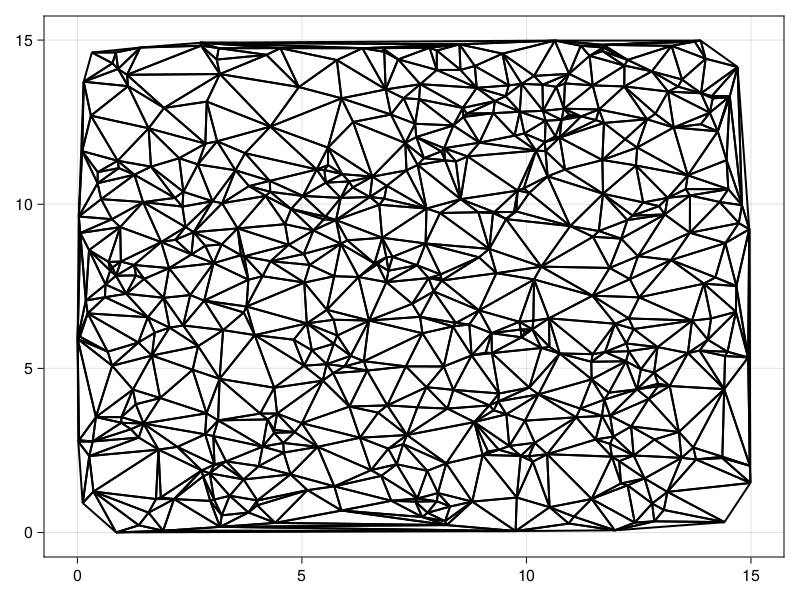
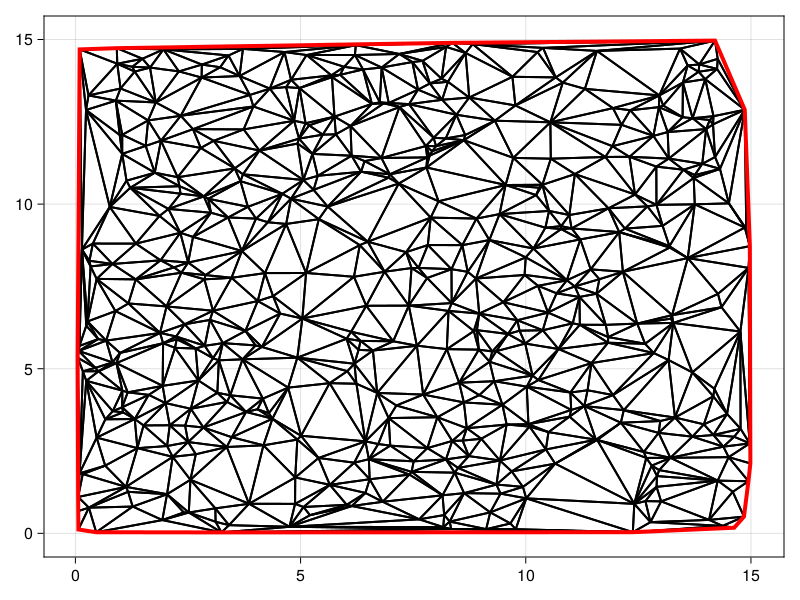
Readme

diff --git a/README.md b/README.md
@@ -1,5 +1,15 @@
 # DelaunayTriangulation
 
+- [DelaunayTriangulation](#delaunaytriangulation)
+- [Getting started](#getting-started)
+  - [de Berg's method](#de-bergs-method)
+  - [Bowyer-Watson algorithm](#bowyer-watson-algorithm)
+- [Customisation](#customisation)
+  - [Triangle interface](#triangle-interface)
+  - [Edge interface](#edge-interface)
+  - [Point interface](#point-interface)
+  - [Example](#example)
+- [A note on Voronoi tessellations](#a-note-on-voronoi-tessellations)
 
 This is a package for creating (unconstrained) two-dimensional Delaunay triangulations. The great package [ExactPredicates.jl](https://github.com/lairez/ExactPredicates.jl) is used for all geometric predicates. There also exist routines for building the convex hull (from the triangulation), and currently commented-out Voronoi tessellation code (see some discussion at the end). Much of the work in this package is derived from the book *Delaunay Mesh Generation* by Cheng, Dey, and Shewchuk (2013). Point location is implemented using the jump-and-march algorithm of Mücke, Saias, and Zhu (1999); see `jump_and_march`.
 
@@ -24,7 +34,7 @@ T, adj, adj2v, DG, HG = triangulate_berg(pts)
 ```
 This function `triangulate_berg` creates the triangulation for the given `pts`, returning:
 - `T`: This is the set of triangles, of default type `Set{NTuple{3, Int64}}`. By default, triangles are represented as tuples of indices `(i, j, k)` so that `(pts[i], pts[j], pts[k])` are the points representing the triangle. All triangles `T` are positively oriented.
-- `adj`: This is the `Adjacent` map, mapping edges `(i, j)` to a vertex `k` such that `(i, j, k)` is a positively oriented (counter-clockwise) triangle that exists in `T`. If no such triangle exists, `-4` is returned (this constant is defined in `DelaunayTriangulation.DefaultAdjacentValue`). You can extract this vertex using `get_edge(adj, i, j)`. By default, edges are represented as `NTuple{2, Int64}`.
+- `adj`: This is the `Adjacent` map, mapping edges `(i, j)` to a vertex `k` such that `(i, j, k)` is a positively oriented (counter-clockwise) triangle that exists in `T`. If no such triangle exists, `-4` is returned (this constant is defined in `DelaunayTriangulation.DefaultAdjacentValue`). You can extract this vertex using `get_edge(adj, i, j)`. By default, edges are represented as `NTuple{2, Int64}`. These empty keys (those that map to `-4`) can be removed using `DelaunayTriangulation.clear_empty_keys!(adj)`.
 - `adj2v`: This is the `Adjacent2Vertex` map, mapping vertices `i` to a set of edges `(j, k)` such that `(i, j, k)` is a positively oriented triangle in `T`. In particular, the set of all triangles with `i` as a vertex is `[(i, j, k) for (j, k) in get_edge(adj2v, i)]`.
 - `DG`: This is the `DelaunayGraph` object, mapping vertices `i` to the set of all neighbouring vertices. You can access all these neighbours using `get_neighbour(DG, i)`.
 - `HG`: Unique to `triangulate_berg`, this is a `HistoryGraph` object, primarily used for point location. For example, if a triangulation is constructed for points `pts[1:(n-1)]` and a new point `pts[n]` is to be added, the triangle that `pts[n]` is inside of can be found using `locate_triangle(HG, pts, n)`.
@@ -43,15 +53,17 @@ A key limitation of this algorithm is that points cannot be removed (although th
 
 The Bowyer-Watson algorithm is different to de Berg's method, although points are still added one at a time. Instead of flipping edges to reach a Delaunay triangulation at each step, triangles are instead evacuated and then the resulting polygonal cavity is re-filled to reach a Delaunay triangulation. Our implementation follows that of Cheng, Dey, and Shewchuk (2013). The function for this is `triangulate_bowyer`:
 ```julia
-p1 = [0.0, 1.0]
-p2 = [3.0, -1.0]
-p3 = [2.0, 0.0]
-p4 = [-1.0, 2.0]
-p5 = [4.0, 2.0]
-p6 = [-2.0, -1.0]
+using StaticArraysCore
+p1 = SVector{2, Float64}([0.0, 1.0])
+p2 = SVector{2, Float64}([3.0, -1.0])
+p3 = SVector{2, Float64}([2.0, 0.0])
+p4 = SVector{2, Float64}([-1.0, 2.0])
+p5 = SVector{2, Float64}([4.0, 2.0])
+p6 = SVector{2, Float64}([-2.0, -1.0])
 pts = [p1, p2, p3, p4, p5, p6]
 T, adj, adj2v, DG = triangulate_bowyer(pts)
 ```
+(Points don't have to be represented as vectors, they could be `Tuple`s or `SVector`s, or any type as long as you implement the interface correctly; see the Customisation section.) Points are added in random order, but you can use the order defined by the order in `pts` by setting the keyword `randomise` to `false` in `triangulate_bowyer`.
 
 The definitions of `T`, `adj`, `adj2v`, and `DG` are the same as above. One nice feature of the Bowyer-Watson algorithm as implemented is the use of ghost triangles, i.e. a ghost triangle adjoined to a boundary edge with a vertex out at infinity. This makes it easy to locate points in the boundary, defining a unique ghost triangle that they reside in, and makes it easy to traverse the boundary. You can keep these ghost triangles by setting `trim=false`:
 
@@ -65,17 +77,227 @@ Alternatively, you can add it after the fact as follows:
 DelaunayTriangulation.add_ghost_triangles!(T, adj, adj2v, DG)
 ```
 
-(Use `DelaunayTriangulation.remove_ghost_triangles!(T, adj, adj2v, DG)` to remove them.) 
+(Use `DelaunayTriangulation.remove_ghost_triangles!(T, adj, adj2v, DG)` to remove them.) The vertex at infinity is represented by `0`.
 
 Visualising these triangulations is easy:
 
 ```julia
-pts = [15rand(2) for _ in 1:500]
+pts = 15rand(2, 500)
 T, adj, adj2v, DG = triangulate_bowyer(pts)
+ch = convex_hull(DG, pts)
 using CairoMakie
 fig = Figure()
 ax = Axis(fig[1, 1])
-poly!(ax, Tuple.(pts), [collect(T)[i][j] for i in 1:length(T), j in 1:3], color = (:white, 0.0), strokewidth = 2)
+poly!(ax, pts, [collect(T)[i][j] for i in 1:length(T), j in 1:3], color = (:white, 0.0), strokewidth = 2)
+lines!(ax, hcat(pts[:, ch], pts[:, ch[1]]), color = :red, linewidth = 4)
 ```
 
 ![A triangulation](https://github.com/DanielVandH/DelaunayTriangulation.jl/blob/main/test_fig.png?raw=true)
+
+# Customisation 
+
+The package is built to allow for customisation. For either `triangulate_bowyer` or `triangulate_berg`, we have the following keywords (these are not all of them):
+
+- `IntegerType`: This is the type used for representing integers (default is `Int64`).
+- `EdgeType`: The type used to represent an edge (default is `NTuple{2, IntegerType})`.
+- `TriangleType`: The type used to represent a triangle (default is `NTuple{3, IntegerType})`.
+- `EdgesType`: The type used to represent a set of edges (default is `Set{EdgeType}`).
+- `TrianglesType`: The type used to represent a set of triangles (default is `Set{TriangleType}`).
+
+With these keywords we can allow for a generic interface for these geometric primitives. Below we list these interfaces, followed by an example.
+
+## Triangle interface
+
+Any definition of a triangle must implement the following functions, where we let `T` denote a triangle and `Triangle` is the triangle type, and we assume that `T` has vertices `i`, `j`, and `k`:
+
+- `geti(T::Triangle)`: Returns `i`.
+- `getj(T::Triangle)`: Returns `j`.
+- `getk(T::Triangle)`: Returns `k`.
+- `construct_triangle(::Type{Triangle}, i, j, k)`: Given vertices `i`, `j`, and `k`, and the type `Triangle`, constructs a triangle of type `Triangle` with vertices `i`, `j`, and `k`.
+- `integer_type(::Type{Triangle})`: Returns the integer type for the vertices.
+
+For a collection of triangles, it is needed is that the type is iterable and `length(T)` returns the number of triangles (so that `num_triangles` returns the correct number). You also need to be able to `push!` into `T` and use `delete!` to remove a specific triangle. Finally, you `eltype` should remove `Triangle` when applied to `Triangles`.
+
+## Edge interface 
+
+Any definition of an edge must implement the following function, where we let `E` denote an edge and `Edge` is the edge type, and we assume that `E` has vertices `i` and `j`:
+
+- `construct_edge(::Type{Edge}, i, j)`: Given the type `Edge` and vertices `i` and `j`, returns the `Edge` with vertices `i` and `j`.
+- `Base.iterate(e::Edge, state...)`: `Edge` must be iterable.
+
+For a collection of edges, it is needed is that the type is iterable, and you must define `Edges()` which should return an empty structure that edges can be added into. Moreover, it must be possible to `push!` `Edge`s into the `Edges` object. Additionally, it must also possible to use `delete!` to remove a specific edge; when `delete!` is used, it should make sure that all instances of the edges are removed, in case you use e.g. a `Vector` data type where duplicates are allowed (unlike a `Set`).. Finally, it must be possible to sample an edge using `rand`.
+## Point interface
+
+Any definition of a point must implement the following functions, where we let `p` denote a point and `Point` is the point type, and we assume that `p` has coordinates `(x, y)`:
+
+- `getx(p::Point)`: Returns `x`. The default implementation for this is `getx(p) = p[1]`.
+- `gety(p::Point)`: Returns `y`. The default implementation for this is `gety(p) = p[2]`.
+- `number_type(p::Point)`: Returns the number type used for representing the coordinates. The default implementation for this is `number_type(p) = number_type(p[1])`, `number_type(::T) where {T<:Number} = T`.
+
+For a collection of points, we require:
+
+- `_eachindex(pts::Points)`: Returns an iterator over the indices for the points. The default implementation is `_eachindex(pts) = eachindex(pts)`.
+- `_get_point(pts::Points, i)`: Returns the `i`th point.
+- `num_points(pts::Points)`: Returns the number of points. The default implementation is `num_points(pts) = length(pts)`.
+- `number_type(pts::Points)`: Returns the number type used for representing the coordinates. The default implementation for this is `number_type(pts) = number_type(pts[1])`.
+- `Base.firstindex(pts::Points)`: This should return the index of the first point.
+
+You can also use a matrix of points (as illustrated when we plot the triangulation in the last section).
+
+## Example 
+
+Let us now give an example of how we can implement these interfaces.
+
+First, we must define the types.
+```julia 
+struct CustomEdge
+    i::Int32
+    j::Int32
+end
+struct CustomTriangle
+    i::Int32
+    j::Int32
+    k::Int32
+end
+struct CustomEdges
+    e::Vector{CustomEdge}
+end
+struct CustomTriangles
+    V::Vector{CustomTriangle}
+end    
+struct CustomPoint
+    px::Float64 
+    py::Float64 
+end
+struct CustomPoints{N} 
+    pts::NTuple{N, CustomPoint} 
+end
+```
+Note that for `CustomPoint`, `Float64` is the only type that is compatible with ExactPredicates.jl. Now, let us define all the functions needed.
+```julia
+DT = DelaunayTriangulation 
+
+# Triangle
+DT.geti(CT::CustomTriangle) = CT.i
+DT.getj(CT::CustomTriangle) = CT.j
+DT.getk(CT::CustomTriangle) = CT.k
+DT.construct_triangle(::Type{CustomTriangle}, i, j, k) = CustomTriangle(i, j, k)
+DT.integer_type(::Type{CustomTriangle}) = Int64
+
+# Triangles 
+DT.construct_triangles(::Type{CustomTriangles}) = CustomTriangles(CustomTriangle[])
+DT.triangle_type(::Type{CustomTriangles}) = CustomTriangle 
+Base.push!(T::CustomTriangles, V::Vararg{CustomTriangle, N}) where {N} = push!(T.V, V...)
+function Base.delete!(T::CustomTriangles, V::CustomTriangle) 
+    triangle_idx = findfirst(==(V), T.V)
+    if triangle_idx !== nothing # V might not be in T - don't do anything in that case. Don't worry about checking the triangle up to rotation, that is already done in the main code.
+        deleteat!(T.V, triangle_idx)
+    end 
+    return nothing
+end
+Base.length(T::CustomTriangles) = length(T.V)
+Base.iterate(T::CustomTriangles, state...) = Base.iterate(T.V, state...)
+
+# Edge
+DT.construct_edge(::Type{CustomEdge}, i, j) = CustomEdge(i, j)
+Base.length(::CustomEdge) = 2 # Not needed, but helps the iterator
+Base.iterate(E::CustomEdge, state=1) = state > 2 ? nothing : (state == 1 ? (E.i, state+1) : (E.j, state+1))
+
+# Edges 
+CustomEdges() = CustomEdges(CustomEdge[])
+DT.push!(Es::CustomEdges, E::Vararg{CustomEdge, N}) where {N} = push!(Es.e, E...)
+Base.length(E::CustomEdges) = length(E.e) # Not needed, but helps the iterator 
+Base.iterate(E::CustomEdges, state...) = Base.iterate(E.e, state...)
+Base.delete!(Es::CustomEdges, E::CustomEdge) = deleteat!(Es.e, findall(==(E), Es.e)) # No need to check if the edge is not there - an error should given in that case since it should not be possible. Use findall to avoid the problem of duplicate edges.
+using Random 
+Random.rand(Es::CustomEdges) = rand(Es.e)
+
+# Point
+DT.getx(p::CustomPoint) = p.px 
+DT.gety(p::CustomPoint) = p.py 
+DT.number_type(::CustomPoint) = Float64 
+
+# Points 
+DT._eachindex(::CustomPoints{N}) where {N} = Base.OneTo(N)
+DT._get_point(pts::CustomPoints, i) = pts.pts[i]
+DT.number_type(::CustomPoints) = Float64
+Base.firstindex(::CustomPoints) = 1
+```
+
+Now having defined all these new methods, let's triangulate.
+```julia
+x_data = 15rand(250)
+y_data = 15rand(250)
+pts = CustomPoints(Tuple(CustomPoint(x, y) for (x, y) in zip(x_data, y_data)))
+_seed = 922881
+Random.seed!(_seed) # Keep the same insertion order for later
+T, adj, adj2v, DG = triangulate_bowyer(pts; 
+    IntegerType = Int32,
+    EdgeType = CustomEdge, 
+    TriangleType = CustomTriangle, 
+    EdgesType = CustomEdges,
+    TrianglesType = CustomTriangles)
+```
+
+To make sure this is correct, we can first convert all the structures to standard structures and compare with the triangulation computed with the default structures.
+```julia
+# Convert T, adj, adj2v, DG to standard structures for comparison
+converted_T = Set{NTuple{3, Int64}}(indices(T) for T in T)
+converted_adj = DT.Adjacent{Int64, NTuple{2, Int64}}()
+for ((u, v), k) in adjacent(adj)
+    DT.add_edge!(converted_adj,u,v,k)
+end
+converted_adj2v = DT.Adjacent2Vertex{Int64, Set{NTuple{2,Int64}}, NTuple{2, Int64}}()
+for (k, es) in adjacent2vertex(adj2v)
+    for (i, j) in es
+        DT.add_edge!(converted_adj2v, k, i, j)
+    end
+end
+converted_DG = DT.DelaunayGraph{Int64}()
+for i in DT._eachindex(pts)
+    DT.add_neighbour!(converted_DG, i, get_neighbour(DG, i)...)
+end
+DT.add_neighbour!(converted_DG, DT.BoundaryIndex, get_neighbour(DG, DT.BoundaryIndex)...)
+
+# Now compare
+using Test
+_pts = [x_data'; y_data']
+Random.seed!(_seed)
+_T, _adj, _adj2v, _DG = triangulate_bowyer(_pts)
+@test DT.compare_unconstrained_triangulations(converted_T, converted_adj, converted_adj2v, converted_DG, _T, _adj, _adj2v, _DG)
+```
+This all applies equally as well to `triangulate_berg`.
+
+```julia
+Random.seed!(_seed) # Keep the same insertion order for later
+T, adj, adj2v, DG = triangulate_berg(pts; 
+    IntegerType = Int32,
+    EdgeType = CustomEdge, 
+    TriangleType = CustomTriangle, 
+    EdgesType = CustomEdges,
+    TrianglesType = CustomTriangles)
+converted_T = Set{NTuple{3, Int64}}(indices(T) for T in T)
+converted_adj = DT.Adjacent{Int64, NTuple{2, Int64}}()
+for ((u, v), k) in adjacent(adj)
+    DT.add_edge!(converted_adj,u,v,k)
+end
+converted_adj2v = DT.Adjacent2Vertex{Int64, Set{NTuple{2,Int64}}, NTuple{2, Int64}}()
+for (k, es) in adjacent2vertex(adj2v)
+    for (i, j) in es
+        DT.add_edge!(converted_adj2v, k, i, j)
+    end
+end
+converted_DG = DT.DelaunayGraph{Int64}()
+for i in DT._eachindex(pts)
+    DT.add_neighbour!(converted_DG, i, get_neighbour(DG, i)...)
+end
+DT.add_neighbour!(converted_DG, DT.BoundaryIndex, get_neighbour(DG, DT.BoundaryIndex)...)
+Random.seed!(_seed)
+_T, _adj, _adj2v, _DG = triangulate_berg(_pts)
+@test DT.compare_unconstrained_triangulations(converted_T, converted_adj, converted_adj2v, converted_DG, _T, _adj, _adj2v, _DG)
+```
+
+# A note on Voronoi tessellations 
+
+There is some existing code for creating Voronoi tessellations in `src/voronoi.jl`, but it is currently not used since I am still trying to enable polygons to be chopped off so that they live only inside the convex hull. You can still use `voronoi` though, it just won't trim any polygons. See also the tests (that may not all work yet) in `test/voronioi.jl`. Feel free to ask any questions about the implementation here, it may not all be fully commented yet. See also 
+`writeups/voronoi.jl` for some work that I was doing with it, it's not so organised unfortunately (nothing in the `writeups` folder is).
